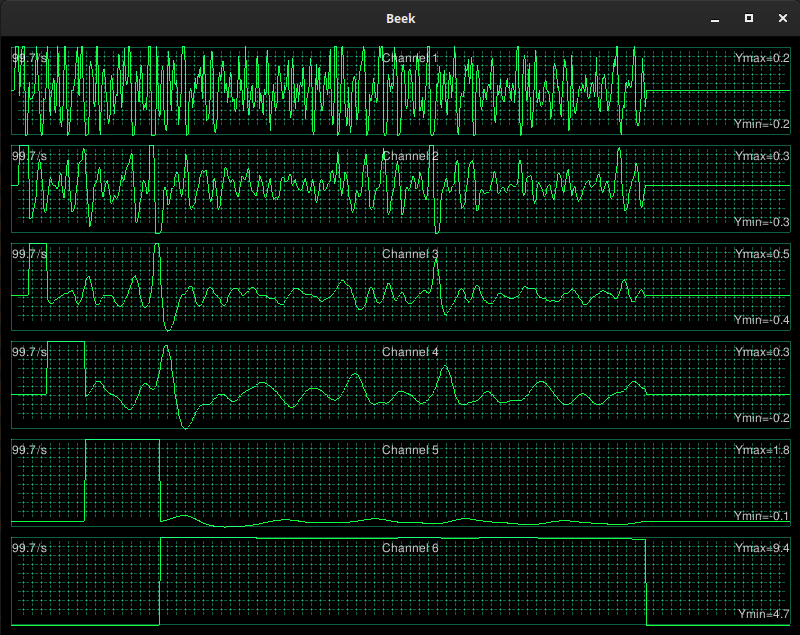
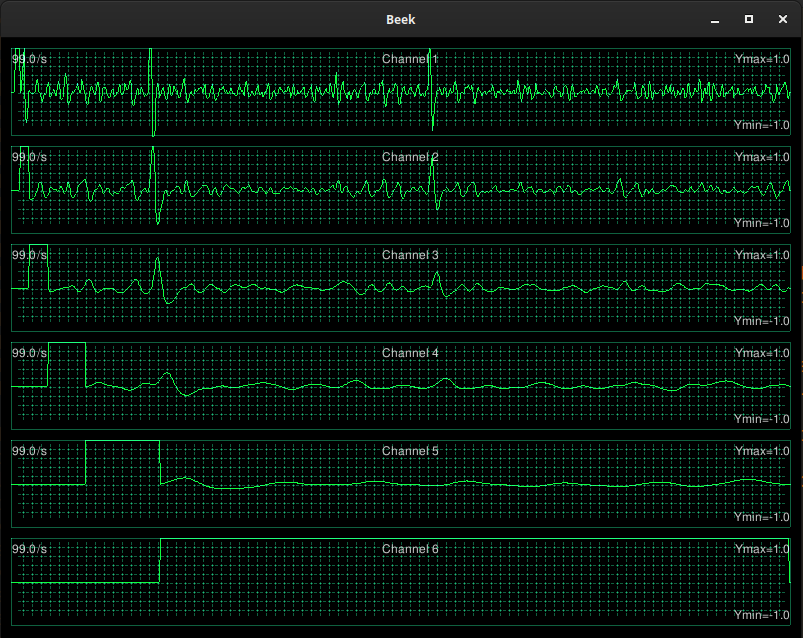
Fixed various timing bugs

Changed region(s): [[0.0, 0.0, 1.0, 0.9874]]

diff --git a/src/main.c b/src/main.c
@@ -93,30 +93,24 @@ main( int argc, char**argv ) {
     }
 
     scope_t* scope = scope_create( 6, win.render );
-    scope_setFrequency( scope, 100 );
-    //scope_initChannel( scope, 0, SCOPE_MODE_STATIC );
-    //scope_setChannelBuffer( scope, 0, s );
+    scope_setFrequency( scope, 200 );
+    /*scope_initChannel( scope, 0, SCOPE_MODE_STATIC );
+    scope_setChannelBuffer( scope, 0, s );
     scope_initChannel( scope, 0, SCOPE_MODE_STREAM );
     scope_setChannelDrawStyle( scope, 0, SCOPE_DRAW_LINES );
     scope_setChannelVerticalMode( scope, 0, SCOPE_VRANGE_AUTO_OPTIMAL );
-//    scope_setChannelSampleSize( scope, 0, 4 );
-    scope_initChannel( scope, 1, SCOPE_MODE_STREAM );
+    scope_setChannelSampleSize( scope, 0, 4 );
+    cope_initChannel( scope, 1, SCOPE_MODE_STREAM );
     scope_setChannelDrawStyle( scope, 1, SCOPE_DRAW_LINES );
     scope_setChannelVerticalMode( scope, 1, SCOPE_VRANGE_AUTO_OPTIMAL );
-/*    scope_lockChannelRange( scope, 1, 0 );
+    scope_lockChannelRange( scope, 1, 0 );
     scope_setChannelSampleSize( scope, 1, 8 );*/
-    scope_initChannel( scope, 2, SCOPE_MODE_STREAM );
-    scope_setChannelDrawStyle( scope, 2, SCOPE_DRAW_LINES );
-    scope_setChannelVerticalMode( scope, 2, SCOPE_VRANGE_AUTO_OPTIMAL );
-    scope_initChannel( scope, 3, SCOPE_MODE_STREAM );
-    scope_setChannelDrawStyle( scope, 3, SCOPE_DRAW_LINES );
-    scope_setChannelVerticalMode( scope, 3, SCOPE_VRANGE_AUTO_OPTIMAL );
-    scope_initChannel( scope, 4, SCOPE_MODE_STREAM );
-    scope_setChannelDrawStyle( scope, 4, SCOPE_DRAW_LINES );
-    scope_setChannelVerticalMode( scope, 4, SCOPE_VRANGE_AUTO_OPTIMAL );
-    scope_initChannel( scope, 5, SCOPE_MODE_STREAM );
-    scope_setChannelDrawStyle( scope, 5, SCOPE_DRAW_LINES );
-    scope_setChannelVerticalMode( scope, 5, SCOPE_VRANGE_AUTO_OPTIMAL );
+    for( int i =0; i < 6; i++ ) {
+        scope_initChannel( scope, i, SCOPE_MODE_STREAM );
+        scope_setChannelDrawStyle( scope, i, SCOPE_DRAW_LINES );
+//        scope_setChannelVerticalMode( scope, i SCOPE_VRANGE_AUTO_OPTIMAL );
+        scope_setChannelVerticalRange( scope, i, -1, 1 );
+    }
     
     FLOW =flw_create();
     flw_setFrequency( FLOW, 100 );
@@ -136,6 +130,7 @@ main( int argc, char**argv ) {
     //flw_connect( FLOW, lowpass, sink );
     flw_connect( FLOW, source, sst );
     flw_connect( FLOW, sst, sink );
+    //flw_connect( FLOW, source, sink );
 
     flw_printGraph( FLOW );
 

diff --git a/src/flow.c b/src/flow.c
@@ -42,7 +42,7 @@ flw_tick( flw_t* flw ) {
         do {
             stage2->consume( stage2 );
             stage2 =stage2->outStage;
-        } while( stage2 != NULL );
+        } while( stage2 != NULL && stage2 != stage1 );
     }
 }
 
@@ -50,12 +50,13 @@ static int
 flw_main( void* arg ) {
     flw_t* flw =(flw_t*)arg;
 
-    struct timespec ival = {.tv_sec = 0, .tv_nsec = 10e9L / flw->frequency};
+    struct timespec interval = {.tv_sec = 0, .tv_nsec = 1e9L / (long)flw->frequency};
+    struct timespec ival, remain;
+    //uint64_t time =0UL;
 
     while( !atomic_load( &flw->stop ) ) {
     
-        uint64_t time =0UL;
-        uint64_t now  =SDL_GetPerformanceCounter();
+      /*  uint64_t now  =SDL_GetPerformanceCounter();
         double elapsed;
         if( time == 0UL ) {
             elapsed =1.f;
@@ -69,9 +70,18 @@ flw_main( void* arg ) {
 
         for( int i=0; i < delta; i++ ) {
             flw_tick( flw );
-        }
+        }*/
 
-        thrd_sleep( &ival, NULL );
+        flw_tick( flw );
+
+        ival =interval;
+
+        while(1) { 
+            thrd_sleep( &ival, &remain );
+            // Make sure we have slept the correct amount
+            if( remain.tv_sec == 0 && remain.tv_nsec == 0 ) break;
+            ival =remain;
+        }
     }
     return 0;
 }

diff --git a/src/scope.c b/src/scope.c
@@ -41,9 +41,9 @@ struct scope_t {
 static uint8_t Palette[N_COLORS][3] = {
     { 15,  96,  63  },  // dull green
     { 15,  255, 63  },  // green
-    { 255, 127,  15  }, // amber
+    { 255, 127,  15 },  // amber
     { 196, 63,  255 },  // violet
-    { 255, 235, 45 },   // yellow
+    { 255, 235, 45  },  // yellow
     { 63,  63,  255 },  // blue
     { 255, 15,  96  },  // fushia
     { 15,  255, 215 },  // cyan
@@ -182,7 +182,8 @@ scope_pushChannelFifo( scope_t* scope, unsigned int chan, double sample ) {
     schannel_t* c =&scope->channel[chan];
     if( c->mode != SCOPE_MODE_STREAM ) return;
 
-    atomq_enqueue( c->sampleQueue, sample );
+    if( !atomq_enqueue( c->sampleQueue, sample ) )
+        printf( "The apocalypse!\n\n" );
 }
 
 void
@@ -445,6 +446,7 @@ scope_updateChannel( scope_t* scope, unsigned int chan ) {
         }
     }
 
+    // Compute the actual frequency
     c->asamples += i;
     if( c->asamples > scope->freq ) {
         c->afreq    = (float)c->asamples / ((float)(scope->time - c->atime) / scope->ticksPerSec);

diff --git a/src/scope.h b/src/scope.h
@@ -7,7 +7,7 @@
 #include "cfifo.h"
 
 static const size_t SCOPE_MAX_LENGTH   = 65535;
-static const size_t SCOPE_FIFO_DEPTH   = 1024;
+static const size_t SCOPE_FIFO_DEPTH   = 2048;
 
 enum scope_channelSampleMode {
     SCOPE_MODE_NONE,
